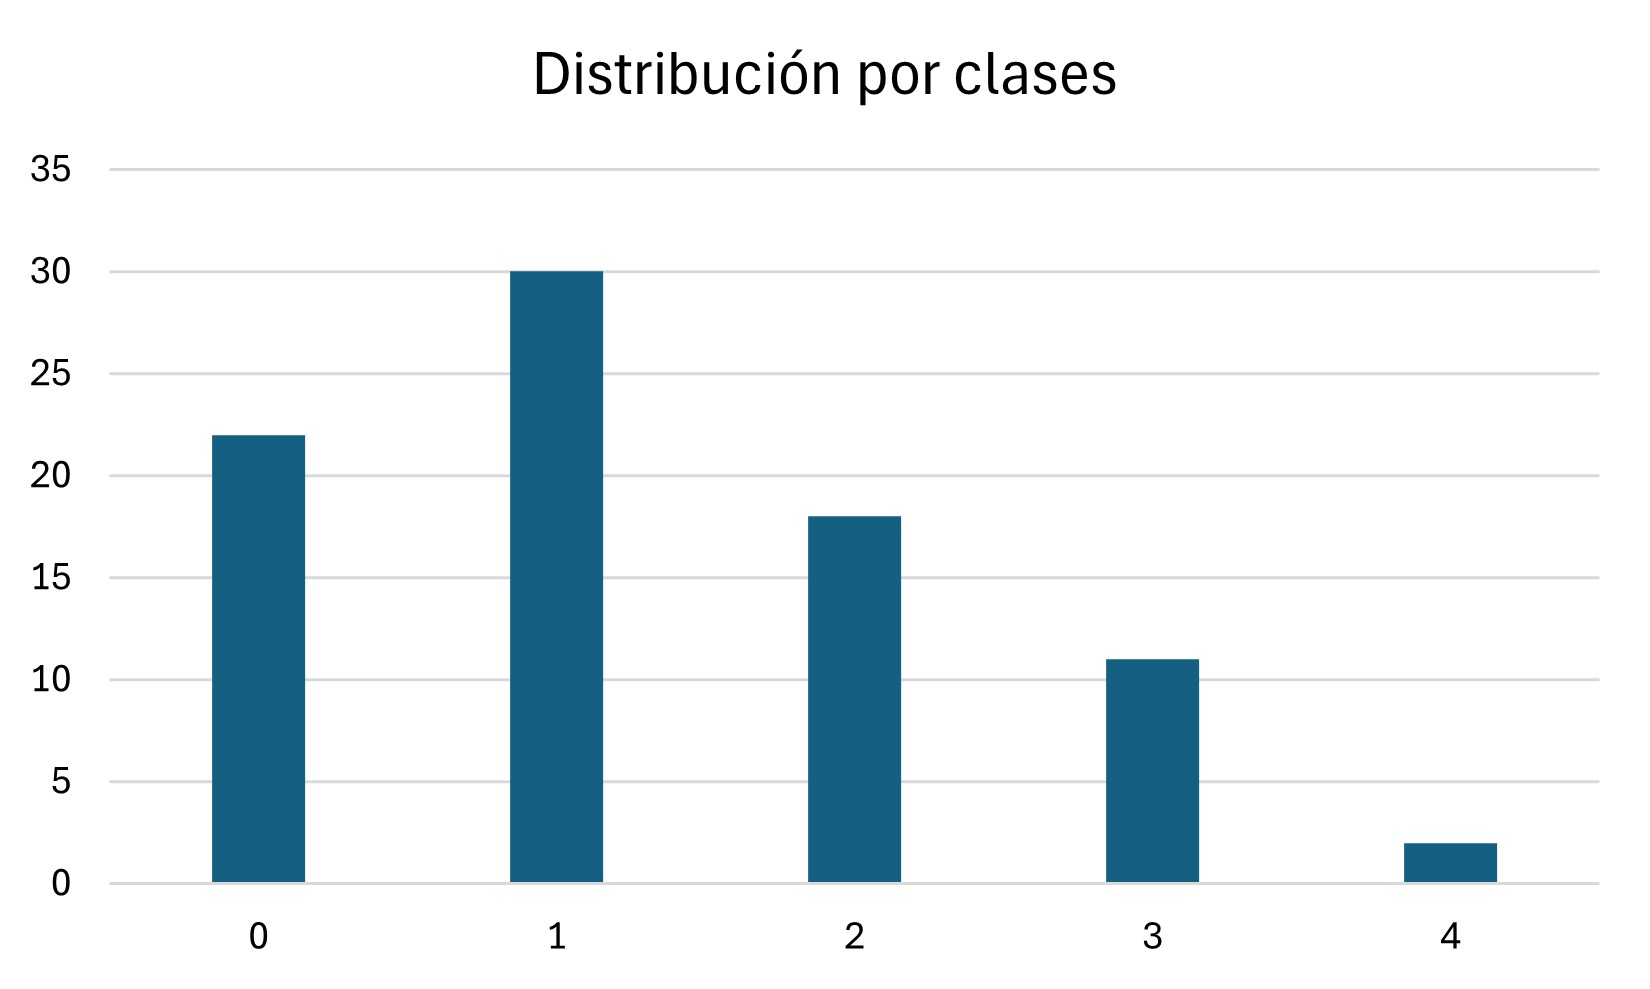
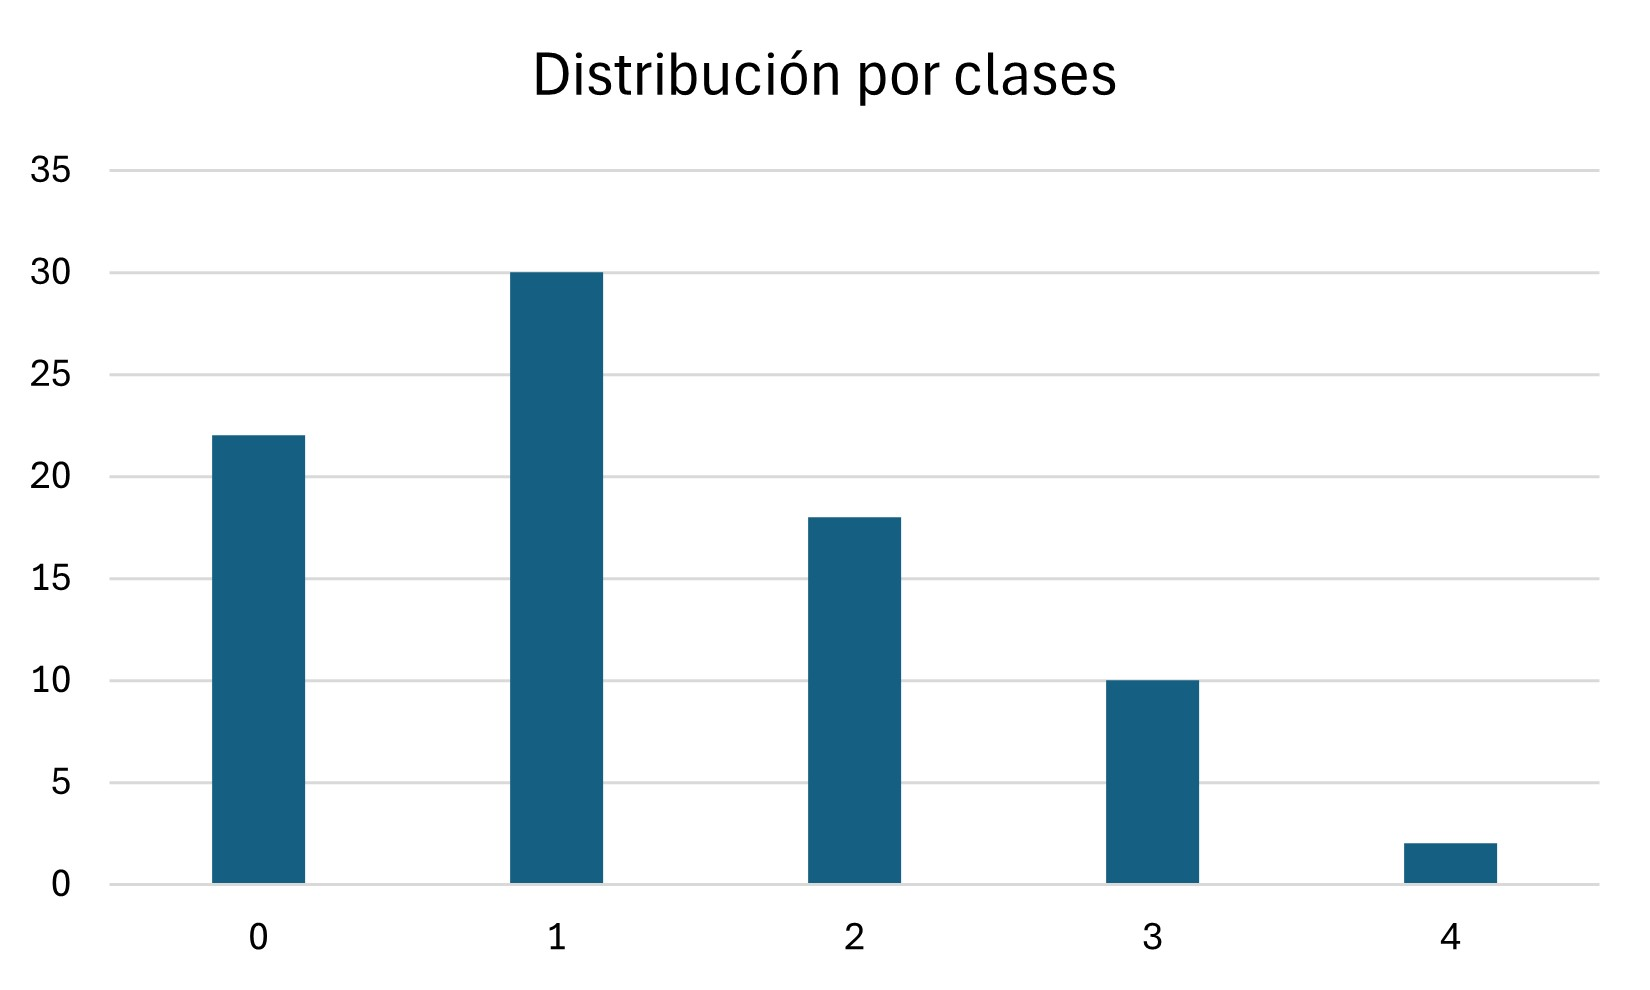
capitulo datos

Changed region(s): [[0.34, 0.0607, 0.5564, 0.091], [0.6491, 0.6673, 0.7418, 0.6977], [0.5873, 0.0607, 0.68, 0.091]]

diff --git a/documentos/memoria_latex/memoria_tfg_temp.tex b/documentos/memoria_latex/memoria_tfg_temp.tex
@@ -528,59 +528,113 @@ En resumen, aunque reducido y con ciertas limitaciones inherentes (privacidad, d
 \section{Tareas comunes}
 \label{sec:3_4_tareas_comunes}
 
-El conjunto \emph{Osteoarthritis Initiative} (OAI) se ha convertido en un estándar de facto para entrenar y validar modelos de aprendizaje profundo destinados a estimar la severidad de la artrosis de rodilla. Su valor reside en la combinación de imagen radiográfica homogénea, anotaciones expertas con la escala \emph{Kellgren--Lawrence} (KL) y un tamaño muestral suficiente para comparar arquitecturas y protocolos bajo condiciones reproducibles. En este contexto, la investigación reciente converge hacia un mismo objetivo clínico—caracterizar el estadio de la enfermedad—que, sin embargo, se formula computacionalmente de maneras sutilmente distintas según el propósito del estudio y las restricciones de datos.
+El \emph{Osteoarthritis Initiative} (OAI) se ha consolidado como uno de los recursos de referencia para el desarrollo y la validación de modelos de aprendizaje profundo orientados a la \textbf{clasificación de la severidad de la artrosis de rodilla}. Su combinación de \emph{volumen}, \emph{calidad de anotaciones} (escala \textit{Kellgren--Lawrence}, KL) y \emph{estandarización de preprocesado} lo han convertido en un banco de pruebas recurrente para comparar arquitecturas, funciones de pérdida y protocolos de entrenamiento. Sobre esta base, la literatura converge en un conjunto de \textbf{tareas recurrentes} que, con variaciones, buscan estimar el estadio de severidad articular.
 
-De manera narrativa, pueden distinguirse tres ejes que organizan el trabajo sobre OAI sin necesidad de recurrir a listados. Primero, el \textbf{objetivo predictivo} oscila entre una separación binaria (presencia de artrosis frente a ausencia) y una clasificación multiclase que cubre todos los grados KL (0--4), con variantes que fusionan categorías contiguas para mitigar la ambigüedad en los estadios leves. Cuando el interés está en reflejar la progresión clínica continua, la predicción se plantea como variable numérica, aproximando KL con una puntuación real en el intervalo $[0,4]$. Segundo, el \textbf{régimen de entrenamiento} suele partir de pesos preentrenados en dominios generales (p.\,ej., ImageNet) y aplicar \emph{fine-tuning} selectivo, práctica que acostumbra a superar a los modelos entrenados desde cero en imagen médica por la limitada disponibilidad de datos etiquetados. Tercero, la \textbf{función de pérdida} deja de ser neutral respecto a la distancia entre clases: además de la entropía cruzada canónica en escenarios categóricos, se emplean pérdidas ordinales o regresivas (MSE/MAE) que penalizan más los errores cuanto mayor es el salto entre grados, alineando el aprendizaje con la naturaleza escalonada de KL. A estos pilares se suman estrategias de apoyo—\emph{data augmentation} realista, ponderación por clase ante desbalance, \emph{ensembling}—y, cada vez con mayor peso, la interpretabilidad con \emph{Grad-CAM} para verificar atención en regiones anatómicas plausibles.
 
-En el marco de este Trabajo de Fin de Grado, se delimita el problema a la \textbf{clasificación del grado KL} empleando recortes de rodilla ya localizados y centrados como los que proporcionan las versiones procesadas difundidas en Mendeley y Kaggle. Se excluye deliberadamente la detección de la articulación y se prioriza la comparabilidad con la literatura mediante particiones predefinidas, protocolos de entrenamiento unificados y métricas complementarias (accuracy, F1 macro en multiclase, AUC en binaria y MAE cuando la formulación adopta una escala continua). Para reforzar la lectura clínica, se contemplan mapas \emph{Grad-CAM} sobre ejemplos representativos, con especial atención a los casos limítrofes entre KL~1 y KL~2, donde la discrepancia interobservador es mayor.
+El conjunto de datos de la *Osteoarthritis Initiative* (OAI) ha sido ampliamente empleado en la literatura científica como base para el desarrollo de modelos de aprendizaje
+profundo orientados al diagnóstico automatizado de la artrosis de rodilla. Gracias a su riqueza clínica y su volumen de imágenes radiográficas etiquetadas según la escala de
+Kellgren-Lawrence (KL), este dataset se ha convertido en una referencia para la validación de nuevas arquitecturas y metodologías dentro del ámbito de la inteligencia 
+artificial aplicada a la medicina.
 
-La bibliografía reciente ilustra bien estas decisiones de diseño. \textbf{Chen et al. (2019)} \cite{chen2019fully} proponen un sistema completo con detección (YOLOv2) y, en lo que aquí resulta más relevante, clasificación de la severidad con CNN preentrenadas (VGG, ResNet, InceptionV3, DenseNet). Su contribución central es una \emph{adjustable ordinal loss} que incrementa la penalización con la distancia entre etiquetas, superando a la entropía cruzada y alcanzando un 70{.}4\,\% de \emph{accuracy} con VGG-19 como mejor configuración. \textbf{Rafique et al. (2024)} \cite{rafique2024knee} comparan VGG-16/19, ResNet-50/101 y EfficientNetB7 tanto en multiclase como en binaria por pares, mostrando la dificultad sistemática en KL1 y reportando, en el escenario extremo 0 vs.\ 4, una precisión del 99{.}13\,\% con EfficientNetB7; además, integran \emph{Grad-CAM} para alinear las regiones activadas con zonas anatómicas de interés clínico. \textbf{Nabil et al. (2024)} \cite{nabil2024automatic} optan por reetiquetar KL~0/1/2 como ``sano'' para estabilizar la frontera de decisión y plantean una clasificación en tres niveles (sano, moderado, severo) donde EfficientNetB7 se impone con un 93{.}90\,\% de \emph{accuracy}, apoyado en un preprocesado cuidadoso y aumentos extensivos. Por último, \textbf{Fei et al. (2024)} \cite{fei2024diagnosing} formulan explícitamente la tarea como \textbf{regresión continua}, evaluando VGG16, ResNet34, DenseNet169 y EfficientNetV2 (versión pequeña) sobre 8\,260 imágenes de OAI; EfficientNetV2 destaca con un 71\,\% de \emph{accuracy}, AUC 0{.}83 y MAE 0{.}42, evidenciando que una escala numérica capta con mayor finura la progresión y favorece aplicaciones de seguimiento longitudinal.
+A lo largo del tiempo, diferentes líneas de investigación han coincidido en una serie de tareas recurrentes que abordan distintos enfoques sobre la severidad de la artrosis. 
+Estas tareas pueden clasificarse, principalmente, en función de tres criterios:
 
-La Tabla~\ref{tab:comparative_oai} resume cuantitativamente estos trabajos, manteniendo la notación de clases y los escenarios de comparación tal y como se reportan en los artículos originales. Esta visión conjunta permite apreciar de un vistazo cómo la incorporación de la ordinalidad—ya sea mediante pérdidas específicas o mediante una formulación regresiva—tiende a mejorar la coherencia clínica, y cómo los \emph{backbones} preentrenados dominan con claridad cuando el tamaño del conjunto no permite entrenamientos \emph{from scratch} robustos.
+\begin{itemize}
+    \item El tipo de clasificación: binaria (presencia o ausencia de artrosis) o multiclase (grados de KL de 0 a 4).
+    \item La metodología de entrenamiento: desde cero (*from scratch*) o mediante *transfer learning* con redes preentrenadas.
+    \item La formulación del problema: como clasificación ordinaria o regresión ordinal.
+\end{itemize}
+
+Cabe destacar que estas tareas no son excluyentes, y muchas publicaciones recientes exploran combinaciones de estos enfoques. Además, se ha popularizado el uso de técnicas complementarias 
+como el ensamblado de modelos (ensembling), el ajuste fino de pesos (fine-tuning) o el uso de funciones de pérdida adaptadas a la naturaleza ordinal del problema.
+
+En el contexto de este Trabajo de Fin de Grado, el foco se centrará exclusivamente en la tarea de clasificación del grado de artrosis, descartando explícitamente la tarea de detección automática de 
+la articulación de la rodilla. Se parte de imágenes radiográficas previamente recortadas como se encuentran en los datasets disponibles en Mendeley y Kaggle, donde la articulación ya ha sido
+detectada y centrada, pudiendo replicar los experimentos de otros autores y comparar los resultados obtenidos de una manera más directa. 
+
+A modo de ejemplo representativo de las tareas descritas, se presentan a continuación varios estudios recientes que han abordado el problema de clasificación de la artrosis de 
+rodilla utilizando el dataset OAI, cada uno desde una perspectiva metodológica distinta. Estos trabajos ilustran bien la diversidad de aproximaciones y motivaciones que existen 
+en la literatura científica actual, y permiten contextualizar el enfoque adoptado en este Trabajo de Fin de Grado.
+
+\textbf{Chen et al. (2019)} \cite{chen2019fully} desarrollan un sistema completamente automatizado para la clasificación de la severidad de la 
+artrosis de rodilla, combinando detección de la articulación con YOLOv2 y posterior clasificación mediante redes neuronales profundas. 
+En el contexto de este TFG, el interés se centra en la segunda fase del pipeline: la predicción del grado de artrosis según la escala de 
+Kellgren-Lawrence (KL). Los autores emplean arquitecturas CNN preentrenadas como VGG, ResNet, InceptionV3 y DenseNet, afinadas con una función de 
+pérdida personalizada denominada adjustable ordinal loss, diseñada para penalizar más severamente los errores a mayor distancia ordinal. 
+Los resultados muestran que esta función mejora el rendimiento frente a la entropía cruzada tradicional, alcanzando una precisión del 70.4\% con 
+VGG-19 como mejor modelo. Esta propuesta es destacable por introducir de manera explícita la naturaleza ordinal de las etiquetas KL en el proceso 
+de entrenamiento, aspecto esencial para tareas clínicas con niveles de severidad escalonados.
+
+\textbf{Rafique et al. (2024)} \cite{rafique2024knee} proponen un enfoque comprensivo para la clasificación automática de la artrosis 
+de rodilla basado en modelos CNN preentrenados y técnicas de inteligencia artificial explicable (XAI). Su metodología evalúa cinco 
+arquitecturas (VGG-16, VGG-19, ResNet-50, ResNet-101 y EfficientNetB7) tanto en tareas multiclase (grados KL 0 a 4) como binarias, 
+mediante un análisis sistemático de subgrupos (e.g., 0 vs. 1, 0 vs. 2, etc.). Además, aplican Grad-CAM para interpretar las regiones 
+de interés utilizadas por los modelos en la toma de decisiones, comparándolas con las zonas anatómicas de evaluación clínica. Sus 
+resultados destacan la dificultad de distinguir casos leves (KL1), coincidiendo con otros estudios, mientras que en escenarios binarios 
+extremos (e.g., 0 vs. 4), EfficientNetB7 alcanza una precisión del 99.13\%. Esta propuesta resulta especialmente interesante para 
+este TFG por su énfasis en interpretabilidad y comparación directa entre estrategias multiclase y binarias, lo cual aporta 
+información clave sobre la viabilidad de cada enfoque diagnóstico en entornos reales.
+
+\textbf{Nabil et al. (2024)} \cite{nabil2024automatic} optan por una estrategia simplificada que agrupa las clases KL 0, 1 y 2 bajo la categoría 
+“sano”, lo cual responde a la dificultad recurrente en la clasificación precisa del grado KL1. Comparan tres arquitecturas profundas 
+—EfficientNetB7, DenseNet169 e InceptionResNetV2— y reportan un rendimiento superior de EfficientNetB7, con una precisión del 93.90\%. 
+Su propuesta destaca por una cuidadosa fase de preprocesamiento, uso extensivo de técnicas de aumento de datos y regularización, así 
+como una formulación del problema como clasificación en tres niveles (sano, moderado, severo). Pese a su elevado coste computacional, 
+EfficientNetB7 se presenta como una solución idónea para entornos clínicos donde la precisión diagnóstica es prioritaria.
+
+\textbf{Fei et al. (2024)} \cite{fei2024diagnosing} plantean un cambio conceptual al abordar la clasificación de la artrosis como un problema 
+de regresión continua, en lugar de una clasificación discreta. Utilizando redes neuronales convolucionales, sus modelos generan puntuaciones 
+decimales entre 0 y 4 que reflejan con mayor precisión la progresión de la enfermedad. Evalúan cuatro arquitecturas —VGG16, ResNet34, 
+DenseNet169 y EfficientNetV2 small— sobre 8260 imágenes del dataset OAI, siendo EfficientNetV2 la más destacada, con una precisión del 71\%, 
+AUC de 0.83 y un error absoluto medio (MAE) de 0.42. Este enfoque permite un análisis más granular y continuo del estado articular, abriendo 
+la puerta a aplicaciones como el seguimiento longitudinal, la predicción de progresión y el soporte a la decisión clínica.
+
+Cabe destacar que, al igual que la función de pérdida adjustable ordinal loss utilizada por Chen et al. (2019), el uso de una pérdida de tipo 
+error cuadrático medio en este estudio refleja la intención de penalizar proporcionalmente según la distancia ordinal entre la predicción y 
+la etiqueta real. Aunque desde una perspectiva técnica se trata de una formulación regresiva en lugar de categórica, ambas propuestas comparten 
+el objetivo de capturar la estructura ordinal inherente al sistema de gradación de Kellgren-Lawrence, superando así las limitaciones de la entropía 
+cruzada convencional.
+
+En la Tabla~\ref{tab:comparative_oai} se presenta una síntesis comparativa de los principales trabajos analizados que han utilizado el dataset OAI. 
+Se resumen los modelos empleados, el tipo de tarea formulada y la precisión obtenida en cada caso. Esta 
+comparativa permite tener una visión global del panorama actual, así como identificar tendencias metodológicas relevantes para este TFG.
 
 \begin{table}[h]
-\centering
-\caption{Comparativa de tareas y resultados en el dataset OAI}
-\label{tab:comparative_oai}
-\begin{tabular}{lcccccc}
-\toprule
-\textbf{Estudio} & \textbf{KL 0--4} & \textbf{KL 0\raisebox{0.5ex}{*}-3-4} & \textbf{0 vs 1} & \textbf{0 vs 2} & \textbf{0 vs 3} & \textbf{0 vs 4} \\
-\midrule
-Chen et al. (2019) & 70.4\% & -- & -- & -- & -- & -- \\
-Rafique et al. (2024) & 58\% & -- & 78.11\% & 82.33\% & 91.53\% & 99.13\% \\
-Nabil et al. (2024) & -- & 94.09\% & -- & -- & -- & -- \\
-Fei et al. (2024) & 71\% & -- & -- & -- & -- & -- \\
-\bottomrule
-\end{tabular}
+    \centering
+    \caption{Comparativa de tareas y resultados en el dataset OAI}
+    \label{tab:comparative_oai}
+    \begin{tabular}{lcccccc}
+        \toprule
+        \textbf{Estudio} & \textbf{KL 0--4} & \textbf{KL 0\raisebox{0.5ex}{*}-3-4} & \textbf{0 vs 1} & \textbf{0 vs 2} & \textbf{0 vs 3} & \textbf{0 vs 4} \\
+        \midrule
+        Chen et al. (2019)     & 70.4\% & --        & --        & --        & --        & --        \\
+        Rafique et al. (2024)  & 58\%   & --        & 78.11\%   & 82.33\%   & 91.53\%   & 99.13\%   \\
+        Nabil et al. (2024)    & --     & 94.09\%   & --        & --        & --        & --        \\
+        Fei et al. (2024)      & 71\%   & --        & --        & --        & --        & --        \\
+        \bottomrule
+    \end{tabular}
 \end{table}
 
 \vspace{-1ex}
 \begin{flushleft}
-\footnotesize\raisebox{0.5ex}{*} 0 agrupa las clases KL 0, 1 y 2 como ``sano'', frente a los grados 3 y 4 (``avanzado'').
+    \footnotesize\raisebox{0.5ex}{*} 0 agrupa las clases KL 0, 1 y 2 como “sano”, frente a los grados 3 y 4 (“avanzado”).
 \end{flushleft}
 
-En continuidad con la Tabla~\ref{tab:comparative_oai}, la Fig.~\ref{fig:confusion_kl} resume el desempeño del mejor modelo en la clasificación KL 0--4. Con una \emph{accuracy} global en torno al 71\,\%, los errores se producen casi siempre entre clases contiguas; destaca la frontera KL1-KL2 como la más conflictiva, mientras que los extremos (KL0 y KL4) muestran mayor separabilidad y apenas aparecen errores de largo alcance.
-
-\begin{figure}[H]
-    \centering
-    \includegraphics[width=0.7\textwidth]{confusion_matrix_fei.png}
-    \caption{Matriz de confusión agregada en la clasificación multiclase KL 0--4 con el mejor modelo del TFG. Predominan los aciertos en la diagonal y las confusiones entre clases vecinas, especialmente KL1–KL2.}
-    \label{fig:confusion_kl}
-\end{figure}
-
-Este patrón refuerza el uso de formulaciones que internalizan la distancia entre clases (pérdidas ordinales o regresión) y aconseja complementar la métrica global con análisis por clase y verificaciones cualitativas (p.\,ej., mapas Grad-CAM) en los casos limítrofes.
-
-En síntesis, la evidencia acumulada apunta a una tendencia clara: los modelos que internalizan la \textbf{estructura ordinal} del problema y se entrenan mediante \textbf{transferencia} con ajustes cuidadosos logran resultados más consistentes y clínicamente plausibles. Esta lectura guía el diseño experimental del presente trabajo, donde se comparan formulaciones categóricas y continuas sobre OAI, se acompaña cada resultado de un análisis cualitativo con \emph{Grad-CAM} y se prioriza la reproducibilidad mediante particiones oficiales y protocolos unificados.
+El análisis de estos trabajos evidencia una creciente tendencia a incorporar la naturaleza ordinal del problema, así como a experimentar 
+con formulaciones alternativas como la regresión o el uso de modelos ensamblados. Esta revisión proporciona una base sólida para el diseño 
+experimental planteado en los capítulos siguientes, donde se compararán distintos enfoques de clasificación aplicados sobre el dataset OAI, 
+considerando también la interpretación de resultados mediante técnicas como Grad-CAM.
 
 \section{Conclusiones}
 \label{sec:3_5_conclusiones}
 
-Este capítulo ha asentado la base empírica y metodológica del proyecto. Por un lado, el \emph{dataset} OAI proporciona el terreno de prueba adecuado para estudiar la clasificación de artrosis con anotaciones KL, a la vez que expone dos desafíos que condicionan toda la cadena experimental: el \textbf{desbalance de clases}, especialmente acusado en los grados severos, y la \textbf{subjetividad} de las etiquetas en estadios leves. Por otro, el conjunto veterinario de radiografías felinas introduce un cambio de dominio real con el que evaluar \textbf{generalización} y \textbf{transferencia}, aspectos cruciales si se pretende que los modelos trasciendan el laboratorio y se aproximen a escenarios clínicos diversos.
+En este capítulo se ha presentado una visión integral de los recursos de datos utilizados en este Trabajo de Fin de Grado, destacando tanto el \emph{dataset} OAI, ampliamente reconocido en la investigación médica para la artrosis de rodilla, como el \emph{dataset} de gatos, que permite evaluar la generalización de los modelos desarrollados a un dominio anatómico distinto. La inclusión de estos dos conjuntos de datos, provenientes de contextos tan diversos, ha permitido establecer una base sólida para el desarrollo y la validación de modelos de clasificación profunda.
 
-El repaso de tareas comunes sobre OAI muestra que la precisión global no basta para juzgar la utilidad clínica: es necesario complementar con métricas por clase, analizar los patrones de error (matrices de confusión) y, cuando la formulación lo permite, cuantificar el \textbf{error absoluto medio} para valorar la distancia entre la predicción y el grado real. El recurso a pérdidas ordinales o a la regresión continua emerge como una respuesta coherente a la escala KL, mientras que la \textbf{interpretabilidad}—materializada en mapas \emph{Grad-CAM}—sirve como control de plausibilidad sobre las regiones anatómicas usadas por el modelo.
+El \emph{dataset} OAI se ha caracterizado en profundidad, especificando su estructura, distribución de clases y las particularidades de sus particiones. Esto ha puesto de manifiesto tanto su riqueza en términos de metadatos clínicos como el desafío del desbalance de clases inherente a la escala de severidad Kellgren-Lawrence (KL). Se ha evidenciado que este desbalance constituye un reto metodológico que debe abordarse adecuadamente durante el diseño de los modelos de clasificación.
 
-Con estas ideas, los capítulos siguientes desarrollan un \textbf{diseño experimental} alineado con la literatura: comparación de \emph{backbones} (CNN y Transformers) bajo formulaciones multiclase y continuas en OAI; evaluación con un conjunto estable de métricas y énfasis en la calibración; y validación externa en el dominio felino bajo tres regímenes (inferencia directa, entrenamiento específico y \emph{fine-tuning} desde OAI). El objetivo es doble: medir el rendimiento de forma honesta y, al mismo tiempo, respaldar cada cifra con evidencias cualitativas y decisiones metodológicas que favorezcan su interpretación clínica.
+Por su parte, el \emph{dataset} de gatos ha sido introducido como un conjunto adicional que facilita la evaluación de las capacidades de transferencia de los modelos desarrollados. Su menor tamaño y variabilidad en las condiciones de imagen plantean un escenario complementario y desafiante, idóneo para probar la robustez de las técnicas implementadas.
 
+Finalmente, las tareas comunes definidas para ambos conjuntos de datos, desde la clasificación binaria hasta la clasificación ordinal, proporcionan un marco metodológico claro para el desarrollo de los modelos en los capítulos siguientes. La comprensión de estas tareas y sus variantes asegura una base conceptual sólida para el diseño experimental que se llevará a cabo, y permite contextualizar los resultados que se obtendrán.
 %%%%%%%%%%%%%%%%%%%%%%%%%%%%%%%%%%%%%%%%%%%%%%%%%%%%%%%%%%%%%%%%%%%%%%%%%%%%%%%
 %                              CAPÍTULO 4                                     %
 %                        REDES CONVOLUCIONALES                                %
